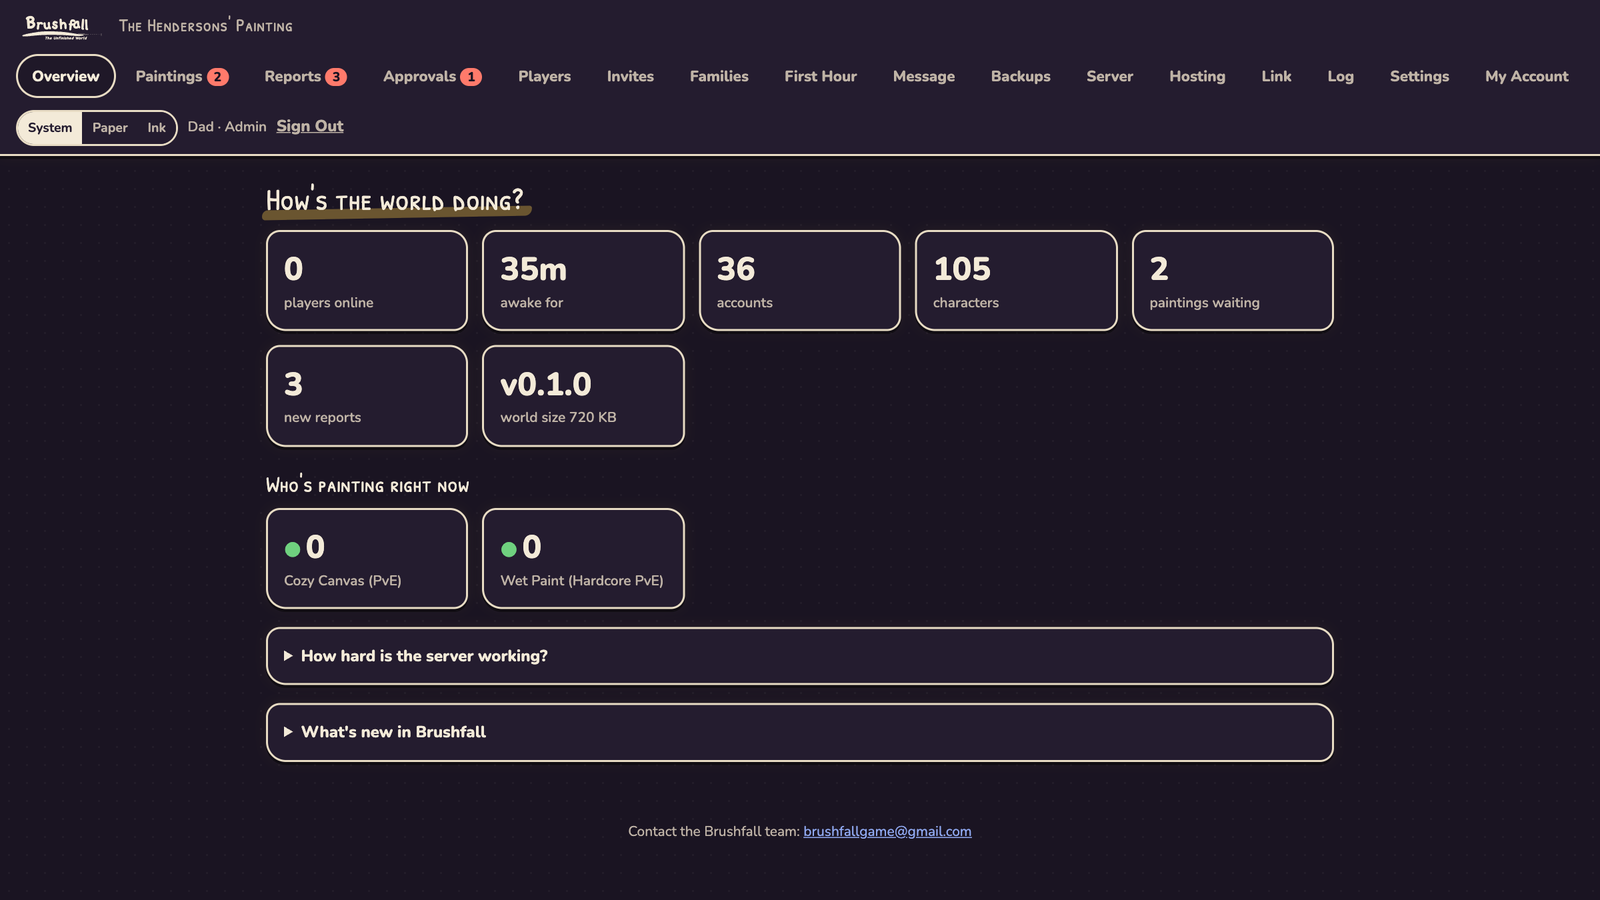
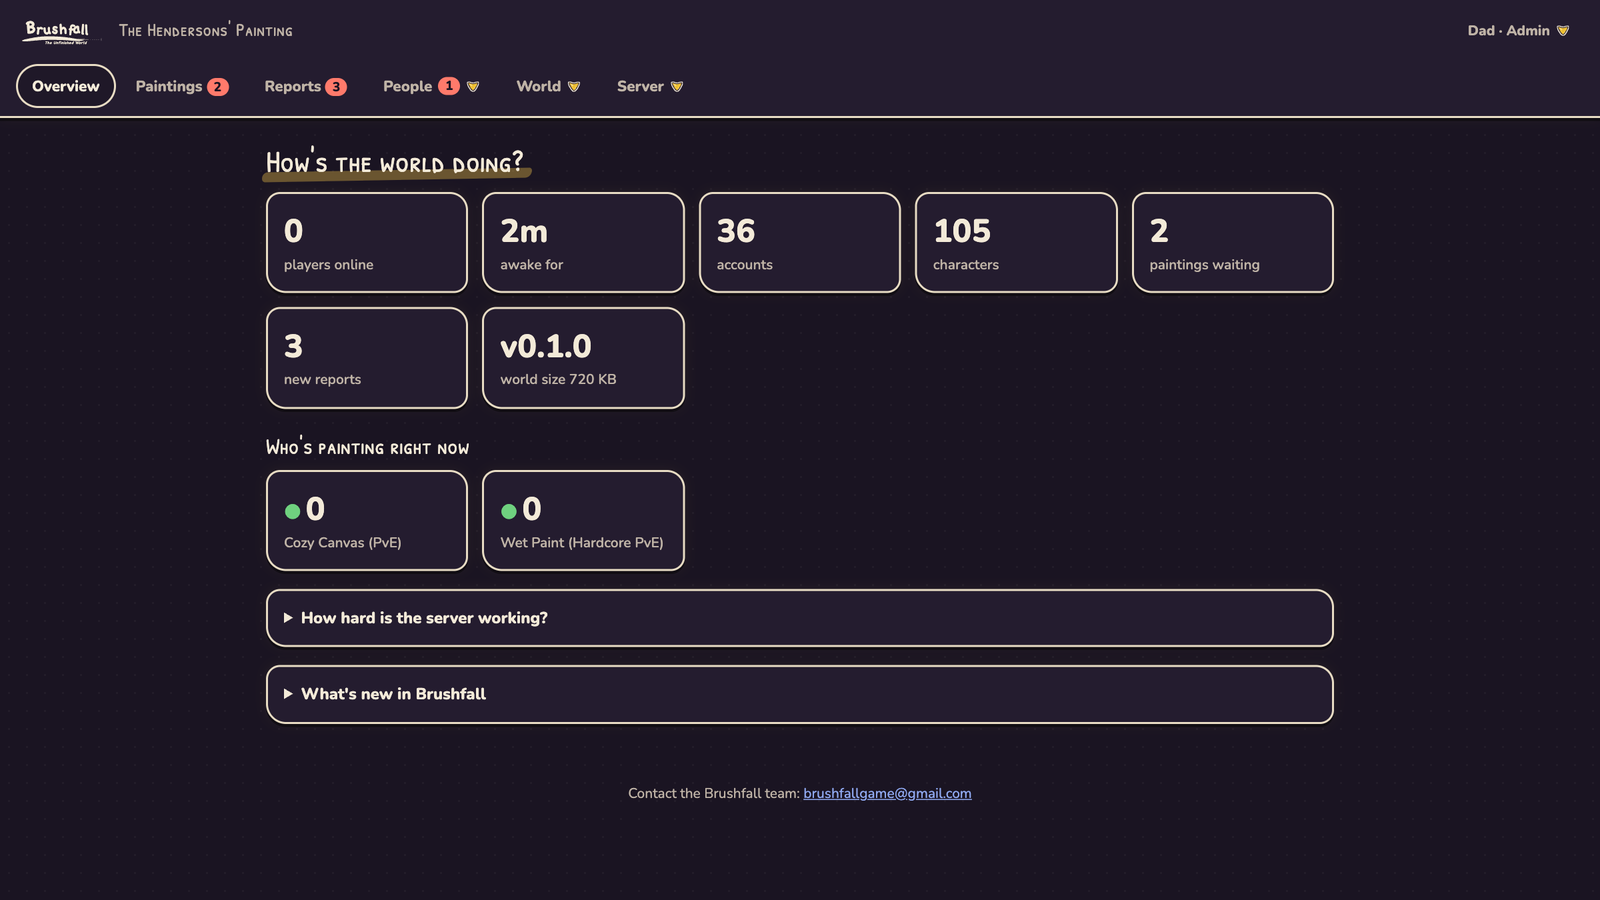
README: the world boss grows with each defeat; 2-step sign-in isn't needed to hang paintings; a current Studio Desk screenshot

diff --git a/README.md b/README.md
@@ -72,7 +72,7 @@ Seven playable races and six classes, two realms (**Cozy Canvas**, where a defea
 
 <img src="assets/screenshots/world-boss.png" alt="A party fighting the Puddle Monarch, a world boss inside a shield, with Paint Totems around it" width="100%">
 
-Large encounters for the whole family, built around simple, readable mechanics: break the totems, stay out of the marked areas, heal each other. Everyone who takes part gets credit.
+Large encounters for the whole family, built around simple, readable mechanics: break the totems, stay out of the marked areas, heal each other. Everyone who takes part gets credit. Each time it's beaten, the world boss comes back a level stronger with better treasure.
 
 ### Paint the world
 
@@ -106,7 +106,7 @@ The admin page for your server, at `/admin`: approve sign-ups, send invite links
 ## Safety and privacy
 
 - New players need your approval (or an invite link) before they can play. A new server can only be set up with the one-time code from your own computer.
-- On a server reachable from the internet, admins and World Helpers must use 2-step sign-in.
+- On a server reachable from the internet, admins and World Helpers must use 2-step sign-in for everything but hanging paintings.
 - Chat is filtered for everyone, and can be limited per child.
 - Reports about other players stay on your server. Bug reports go to the Brushfall team only if you forward them.
 - Daily backups, kept on your server.
